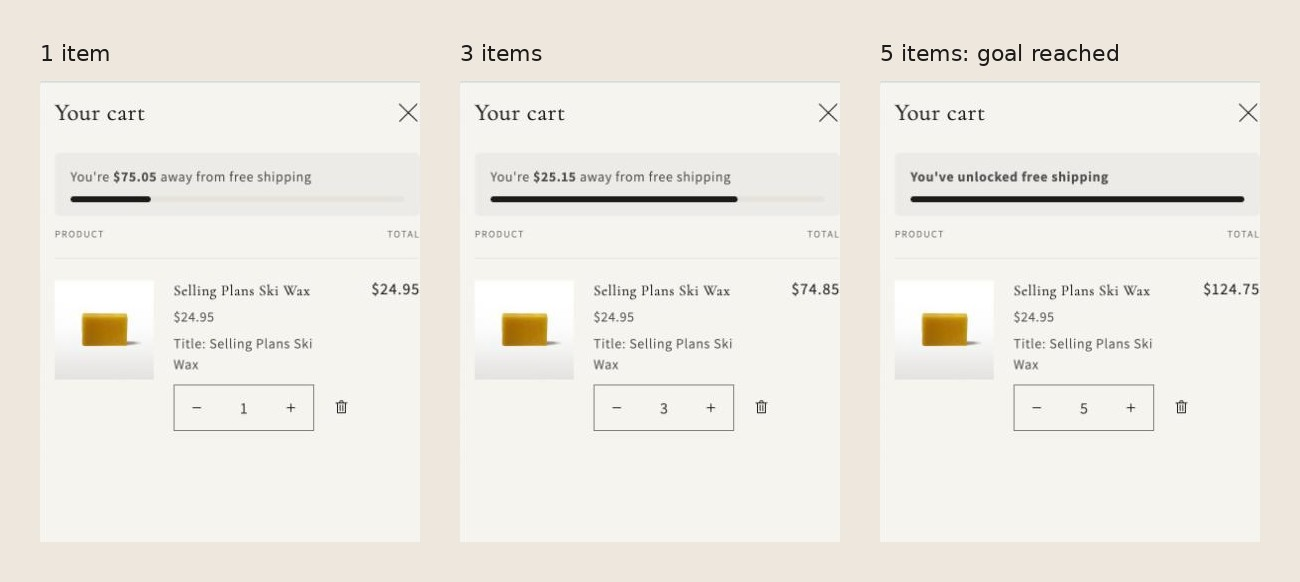
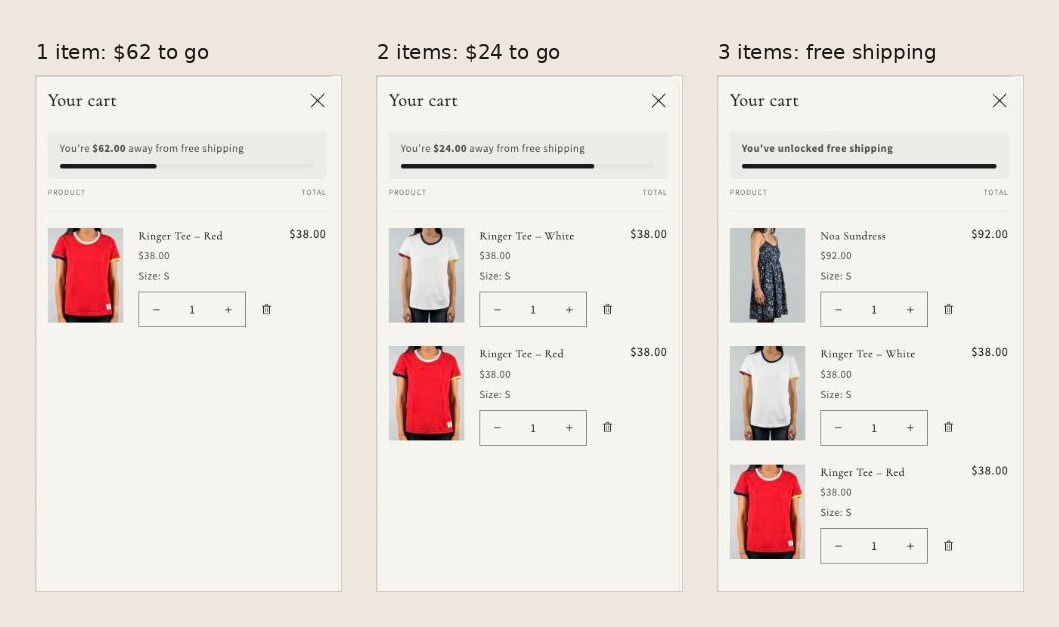
Shopify demo: real catalog, new home page and screenshots
The demo store now sells a fictional summer line (8 products with sizes)
instead of Shopify's generated snowboards. New screenshots: hero on desktop
and mobile, cart drawer with the free shipping bar, the whole home page and
a product page. The example home page JSON matches the live store.

Claude-Session: https://claude.ai/code/session_01FZvhtAYuoav6hM9DCPM7bq

diff --git a/07-shopify-sections/README.md b/07-shopify-sections/README.md
@@ -1,6 +1,6 @@
 # Shopify sections: hero from a design, free shipping bar, FAQ
 
-Three custom Online Store 2.0 sections for **Solenne**, a fictional linen clothing brand. Built on Shopify's Dawn theme (16.1.1) and tested in a Shopify development store. No apps: just Liquid, CSS and a few lines of JavaScript, and every text, image, colour and position is a setting in the theme editor.
+Three custom Online Store 2.0 sections for **Solenne**, a fictional summer clothing brand. Built on Shopify's Dawn theme (16.1.1) and tested in a Shopify development store with a full catalog: 8 products with sizes, two collections, menus, product pages and a cart. No apps: just Liquid, CSS and a few lines of JavaScript, and every text, image, colour and position is a setting in the theme editor.
 
 ![Hero on desktop and mobile](screenshots/cover.jpg)
 
@@ -21,7 +21,7 @@ Three custom Online Store 2.0 sections for **Solenne**, a fictional linen clothi
 
 `snippets/free-shipping-bar.liquid` + `assets/component-free-shipping-bar.css`
 
-- Shows "You're $25.15 away from free shipping" with a progress bar in the cart drawer and on the cart page, then "You've unlocked free shipping".
+- Shows "You're $62.00 away from free shipping" with a progress bar in the cart drawer and on the cart page, then "You've unlocked free shipping".
 - It sits inside the parts of the cart that Dawn re-renders after every change, so it updates instantly without extra JavaScript.
 - Theme settings → Free shipping bar: on/off, the goal, both messages (`[amount]` is replaced with the amount left), bar and track colours.
 
@@ -37,6 +37,14 @@ Three custom Online Store 2.0 sections for **Solenne**, a fictional linen clothi
 - Heading on the left or above the questions, open the first question, colour scheme, padding. In the theme editor each block is listed by its question.
 
 ![FAQ in the theme editor](screenshots/faq-theme-editor.jpg)
+
+## The store around the sections
+
+The demo store is password-protected, so here is the whole home page and a product page. The product page uses Dawn's own blocks with size, fabric and shipping tabs.
+
+![Home page of the demo store](screenshots/store-home.jpg)
+
+![Product page](screenshots/product-page.jpg)
 
 ## Install in Dawn (or another Online Store 2.0 theme)
 
@@ -54,6 +62,6 @@ Three custom Online Store 2.0 sections for **Solenne**, a fictional linen clothi
 ## Checked
 
 - Shopify Theme Check: 0 issues in these files.
-- Tested in a Shopify development store: desktop and mobile preview, cart drawer and cart page, quantity changes below and above the free shipping goal.
+- Tested in a Shopify development store: desktop and mobile preview, cart drawer and cart page, adding items and changing quantities below and above the free shipping goal.
 
-Photos are from Shopify's free image library. Products in the cart screenshots are Shopify's generated test data. Dawn itself is Shopify's theme and is not included here.
+Photos are from Shopify's free image library (Burst). Solenne and its products are made up for this demo. Dawn itself is Shopify's theme and is not included here.

diff --git a/README.md b/README.md
@@ -67,7 +67,7 @@ Screens: `06-pdf-invoices-to-excel/screenshots/`
 
 ## 07 — Shopify sections: hero from a design, free shipping bar, FAQ
 Folder: `07-shopify-sections`
-Custom Online Store 2.0 sections for "Solenne", a fictional linen brand, built on Dawn and tested in a Shopify development store. No apps.
+Custom Online Store 2.0 sections for "Solenne", a fictional summer clothing brand, built on Dawn and tested in a Shopify development store with a full catalog (8 products with sizes, collections, menus, product pages, cart). No apps.
 - Hero with separate desktop and mobile images, two buttons, overlay, 9 text positions, typography settings to match a Figma file; first hero loads with high priority, no layout jump
 - Free shipping progress bar in the cart drawer and on the cart page, updates instantly after every cart change
 - FAQ accordion on native `<details>`, one-open-at-a-time without JavaScript, optional FAQPage structured data
